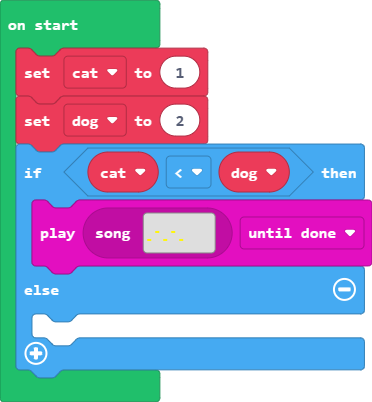
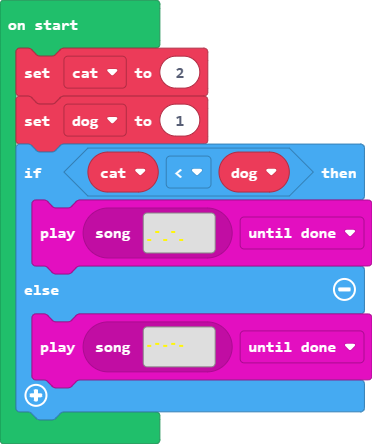
Added more music

diff --git a/main.ts b/main.ts
@@ -1,7 +1,7 @@
-let cat = 1
-let dog = 2
+let cat = 2
+let dog = 1
 if (cat < dog) {
[1 lines of base64/hex data omitted]
 } else {
-	
[1 lines of base64/hex data omitted]
 }
